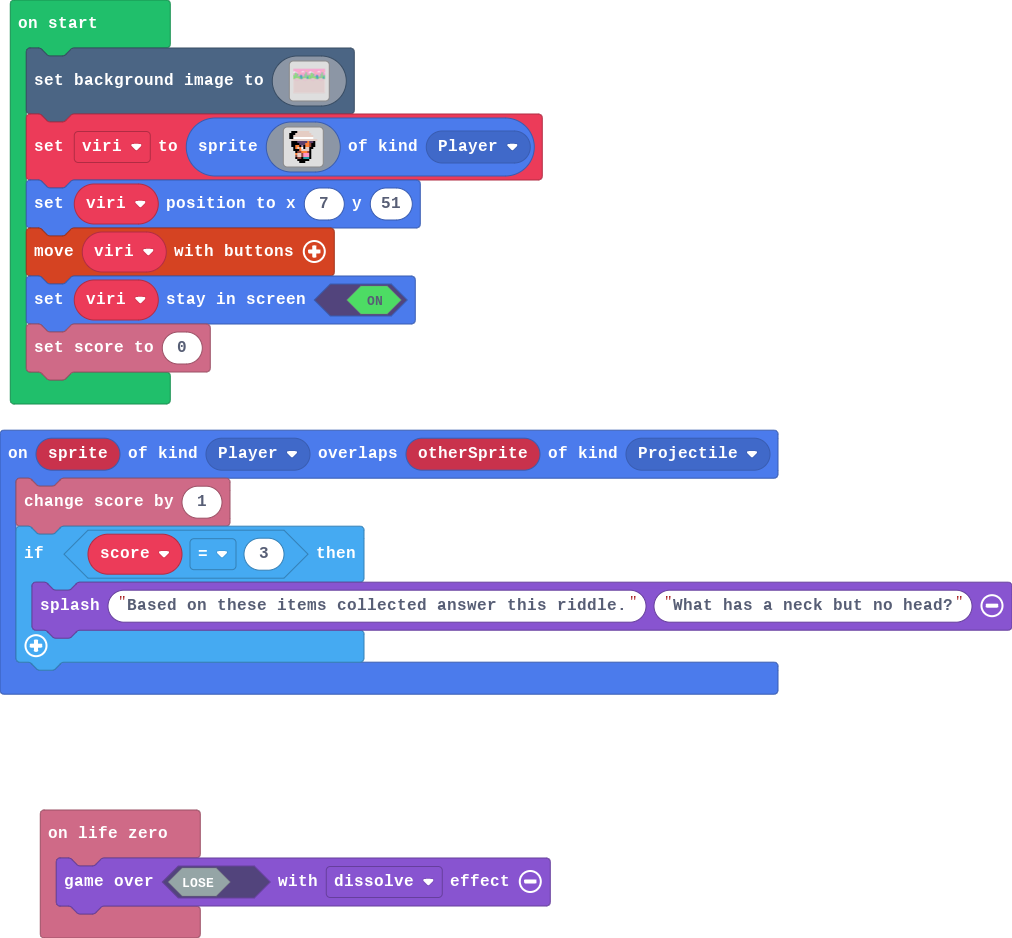
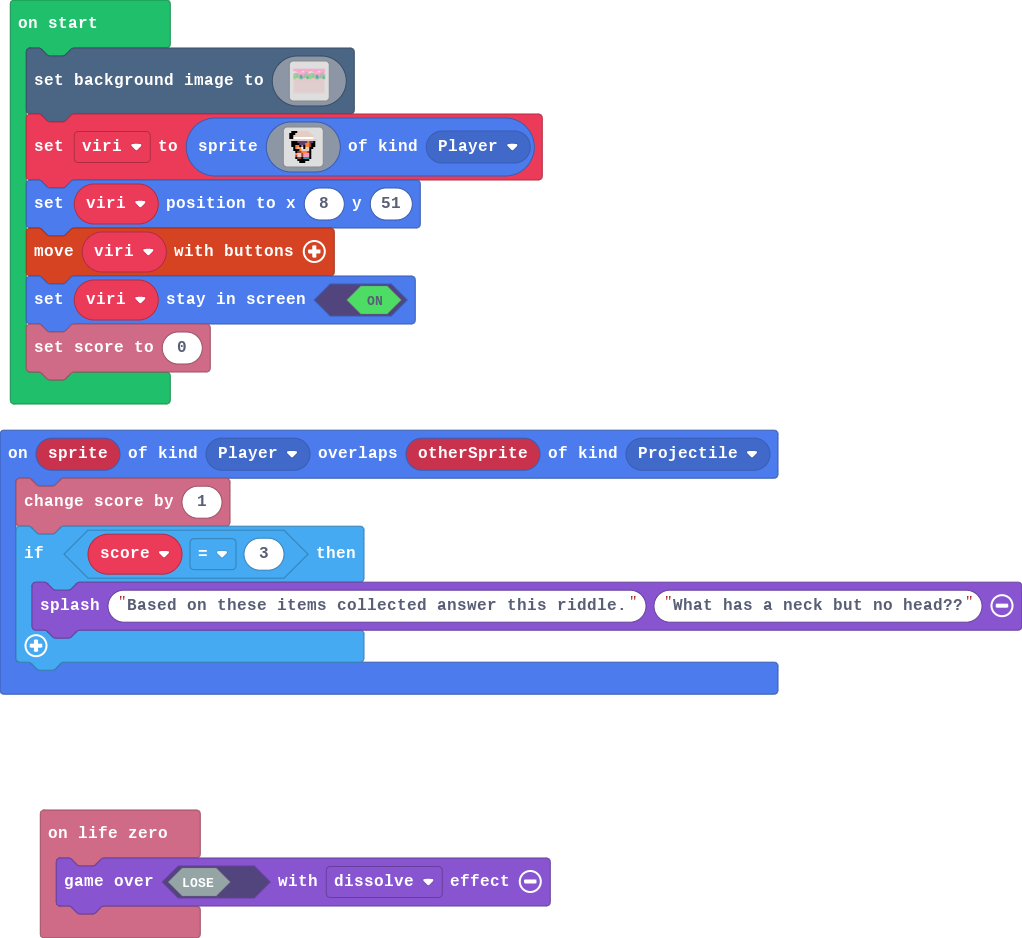
Update main.blocks, main.ts

diff --git a/main.ts b/main.ts
@@ -2,7 +2,7 @@ sprites.onOverlap(SpriteKind.Player, SpriteKind.Projectile, function (sprite, ot
     let score = 0
     info.changeScoreBy(1)
     if (score == 3) {
-        game.splash("Based on these items collected answer this riddle.", "What has a neck but no head?")
+        game.splash("Based on these items collected answer this riddle.", "What has a neck but no head??")
     }
 })
 info.onLifeZero(function () {
@@ -148,7 +148,7 @@ let viri = sprites.create(img`
     . . . . f f f f f f . . . . 
     . . . . . f f f . . . . . . 
     `, SpriteKind.Player)
-viri.setPosition(7, 51)
+viri.setPosition(8, 51)
 controller.moveSprite(viri)
 viri.setStayInScreen(true)
 info.setScore(0)
